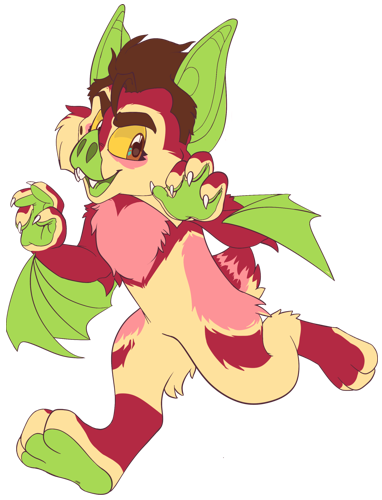
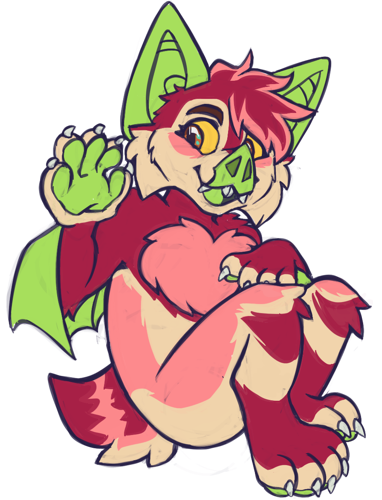
Change presite imag

diff --git a/src/elements.css b/src/elements.css
@@ -50,7 +50,7 @@
   height: 100px;
   width: auto;
   position: absolute;
-  left: -15px;
+  left: -40px;
   bottom: 58px;
   transition: transform 0.5s ease;
 }
